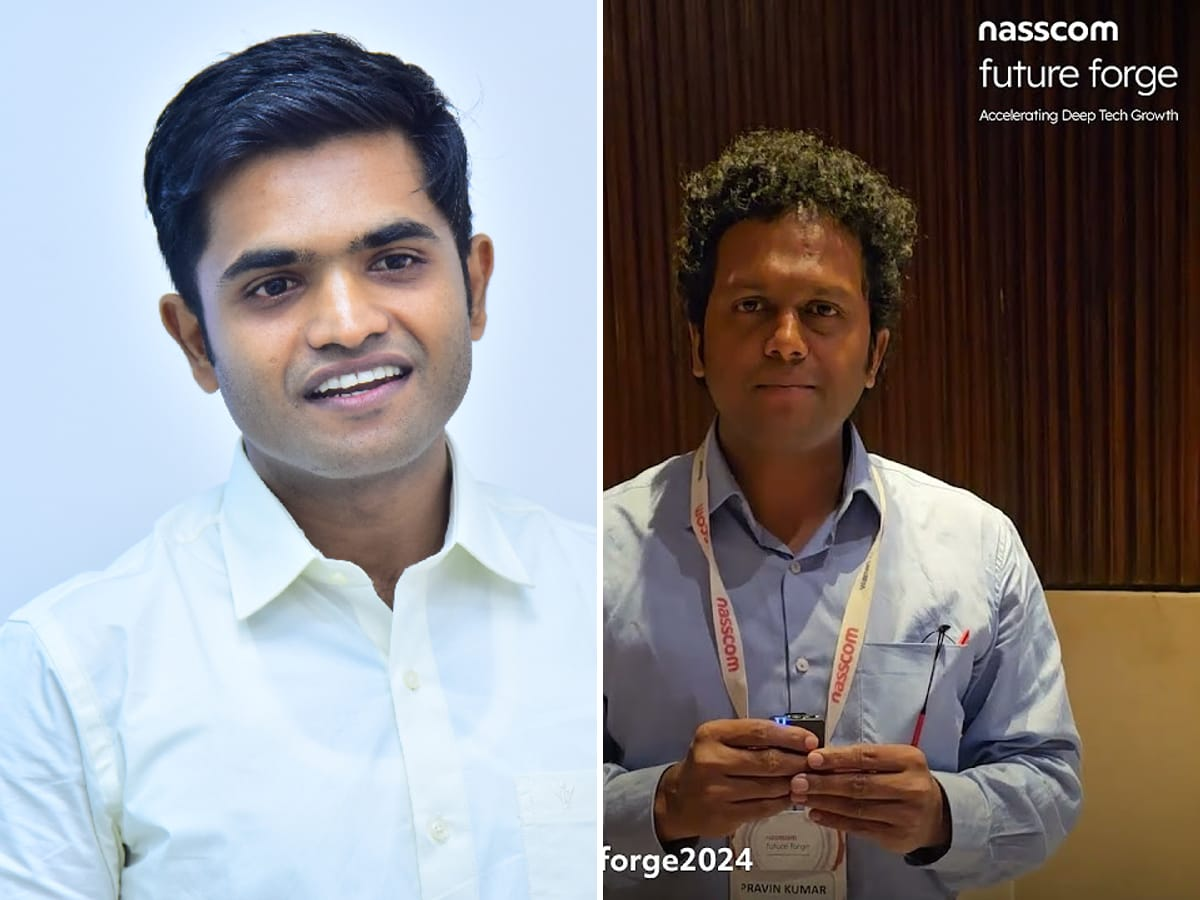
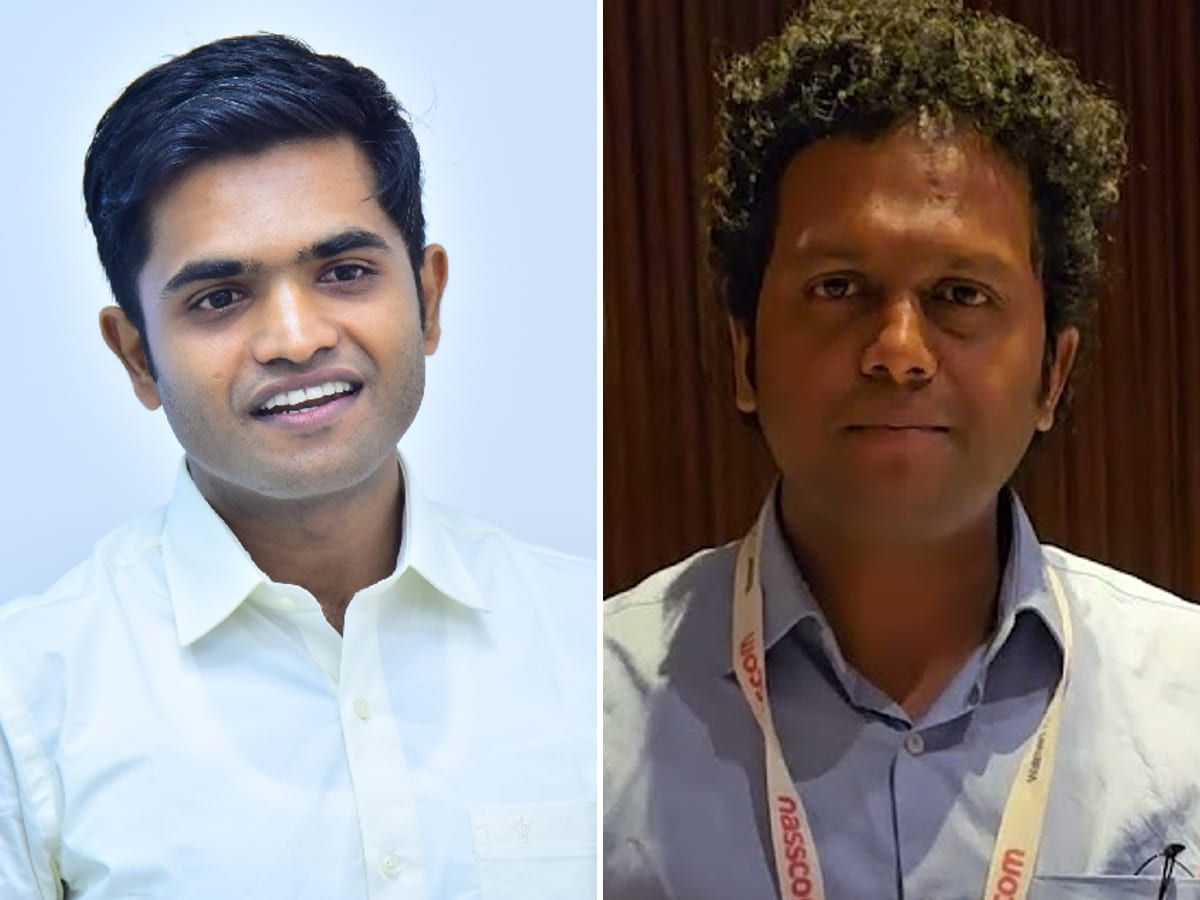
Frame the founder photographs on their faces
The founder pairs were cropped by a saliency guess, which sliced Tiffany
Chan's face in half and aimed LightSpeed's crop at its founders' hands,
losing both heads. Each half is now cropped from the face macOS Vision
finds, at one face size and one eye line, so the pairs match across
Pantherun, XYMA, Neuralzome and Kcat. LightSpeed's card uses the two
founder portraits from its brief instead of a 305px group snap, which
could not be cropped to faces without going soft. SanchiConnect's
portraits arrived inside an orange ring and arrow; they are cut out as
the circles they already were and set on the card's pale blue.

diff --git a/src/content/portfolio-detail.ts b/src/content/portfolio-detail.ts
@@ -322,7 +322,7 @@ export const portfolioDetails: Record<string, CompanyDetail> = {
       ],
     },
     gallery: [
-      { src: "/images/portfolio-detail/lightspeed-photonics/g1.jpg", label: "Founders", caption: "Dr. Rohin Y and Ramana V Pamidighantam", alt: "LightSpeed Photonics founders Dr. Rohin Y and Ramana V Pamidighantam holding their devices." },
+      { src: "/images/portfolio-detail/lightspeed-photonics/g1.jpg", label: "Founders", caption: "Dr. Rohin Y and Ramana V Pamidighantam", alt: "Portraits of LightSpeed Photonics founders Dr. Rohin Y and Ramana V Pamidighantam." },
       { src: "/images/portfolio-detail/lightspeed-photonics/g2.jpg", label: "What they build", caption: "Demonstrating LightSpeed’s optical interconnects", alt: "The LightSpeed Photonics team demonstrating its optical interconnects at an exhibition stand." },
       { src: "/images/portfolio-detail/lightspeed-photonics/g3.jpg", label: "What they build", caption: "The LightSpeed Photonics stand", alt: "The LightSpeed Photonics exhibition stand with its team." },
     ],
